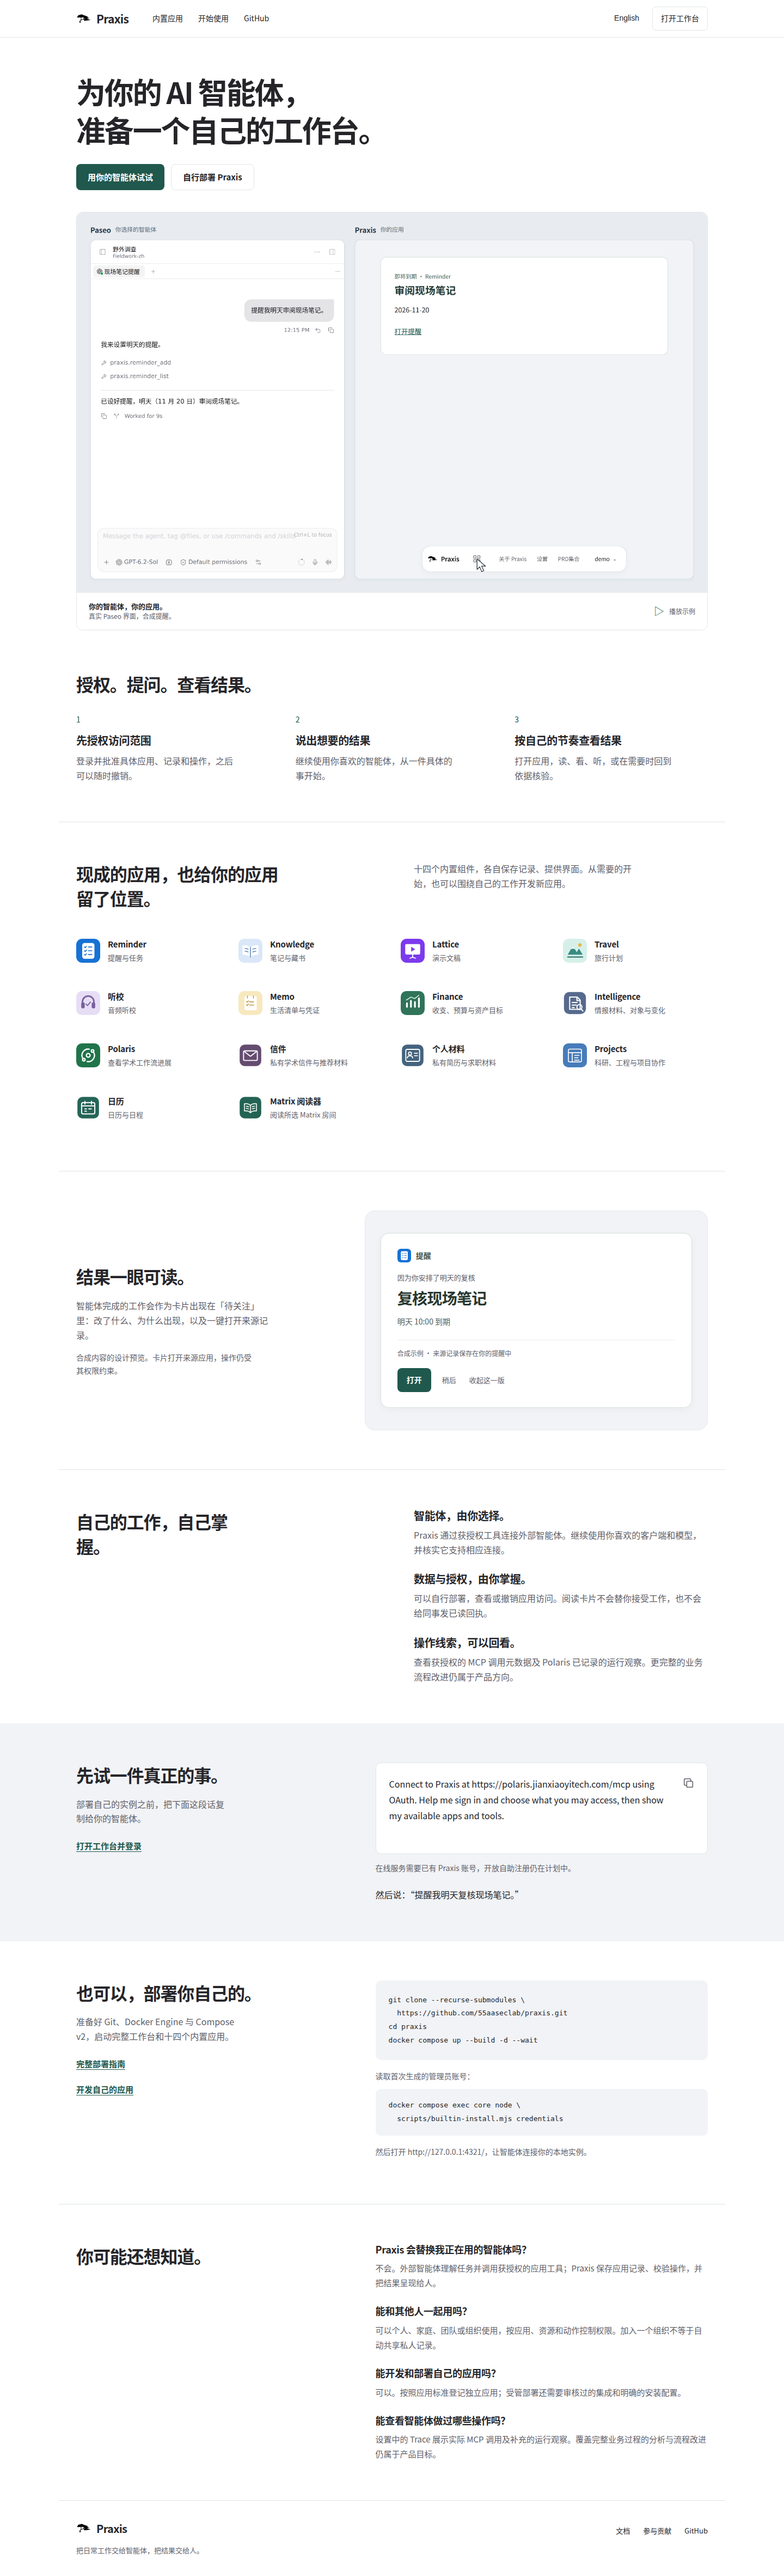
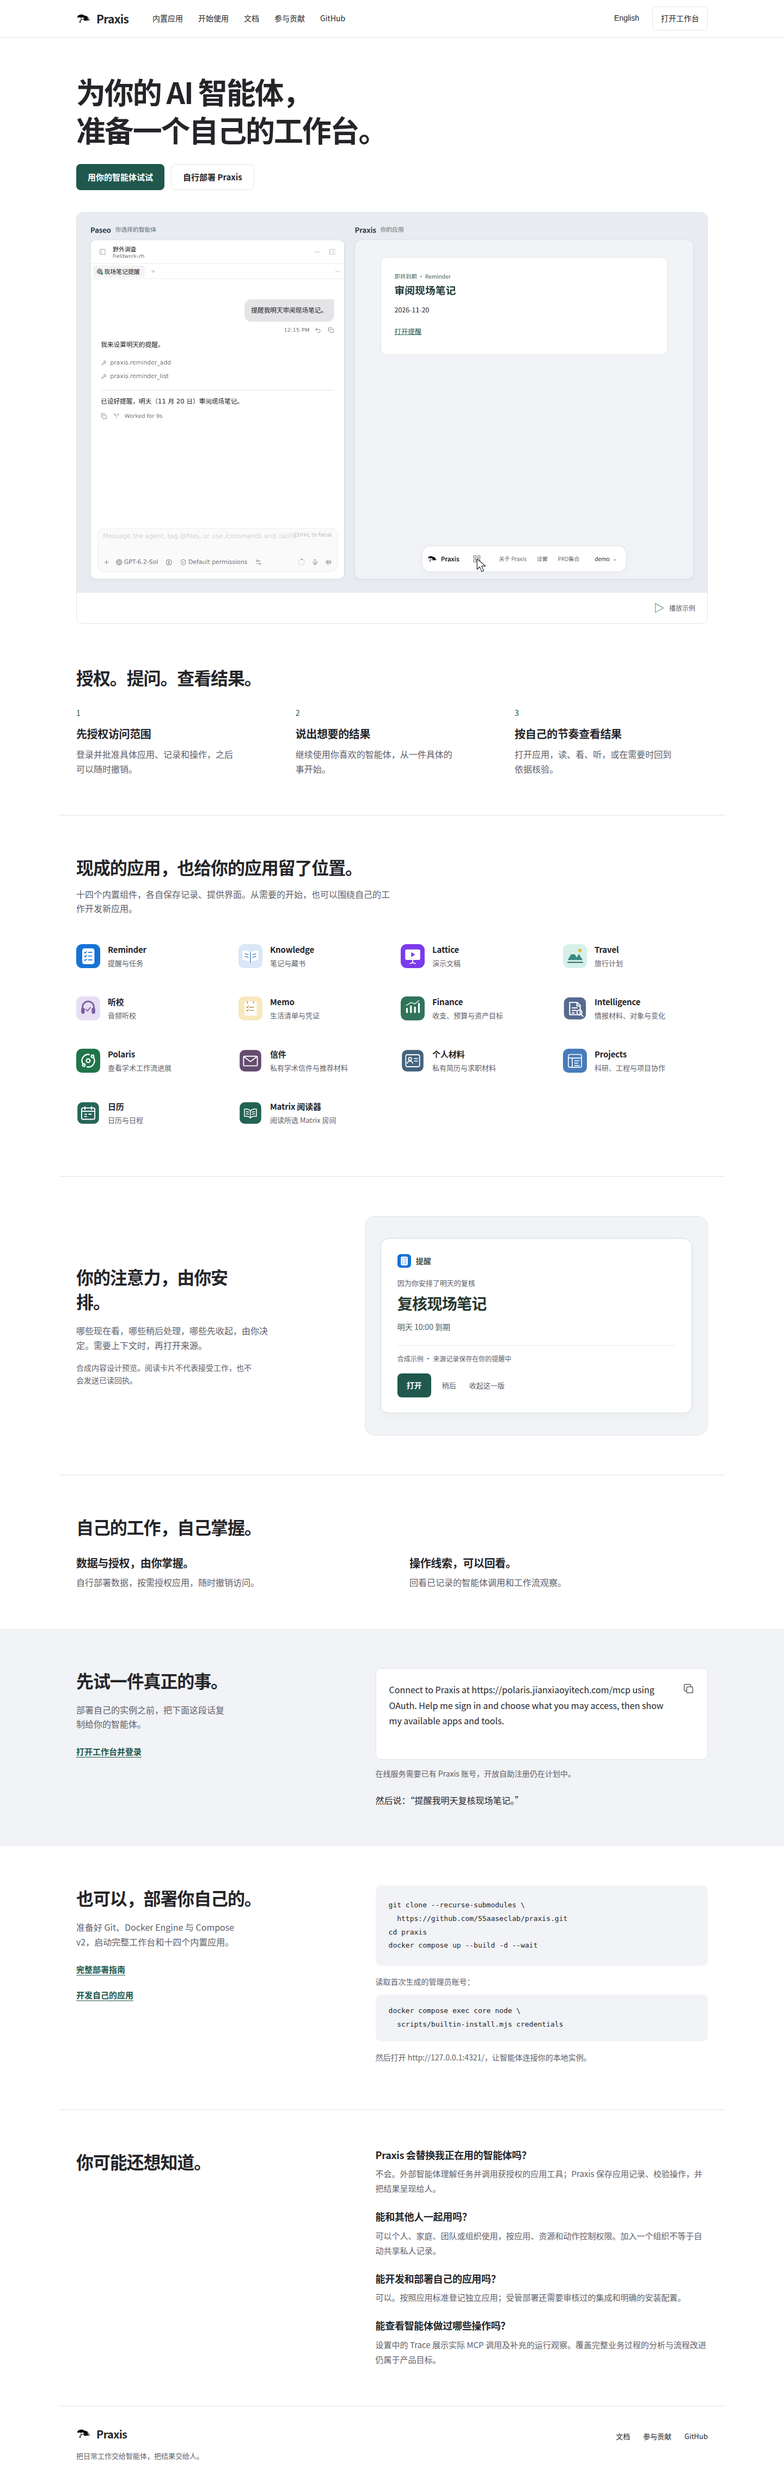
docs: record live attention-focused homepage previews

diff --git a/docs/design/public-home.en.md b/docs/design/public-home.en.md
@@ -95,6 +95,12 @@ Design basis: [Google SEO starter guide](https://developers.google.com/search/do
 
 ## Verified implementation checks
 
+### v0.1.132 content revision
+
+All six requested changes are deployed in English and Chinese. The full suite passes **443/443** checks; focused homepage/navigation checks pass20/20. Actual server-rendered browser checks cover1440/390px and320px navigation wrapping, stacked app headings, two ownership columns, removed captions, attention copy, Documentation/Contribute links and all existing motion/no-JavaScript/cache behavior. Live readback matches the versioned CSS/JS bytes. All35 non-slot containers remain unchanged; blue132 is active and green131 is healthy for rollback. Live screenshots below are updated. Local commits only; no public push.
+
+
+
 ### v0.1.131 cache regression
 
 A browser retaining v0.1.129 CSS reproduced the reported block-layout header and zero gap below the hero actions. Without clearing that browser cache, the content-addressed stylesheet restored the flex header and 40px desktop / 30px phone gap. Source integration and the full platform suite pass **443/443** checks; English/Chinese desktop/phone and both PRD readers also pass.

diff --git a/docs/design/public-home.md b/docs/design/public-home.md
@@ -70,6 +70,12 @@
 
 ## 实现检查
 
+### v0.1.132 内容修订
+
+六项修改均已中英文部署。完整套件 **443/443** 通过，首页/导航专项20/20通过。实际服务端浏览器检查覆盖1440/390px及320px导航换行、应用标题上下排列、归属两栏、说明移除、注意力文案、文档/贡献链接及既有动态/无JS/缓存行为。线上回读与带版本 CSS/JS 字节一致。35个非平台槽容器保持原ID，蓝132活动、绿131健康可回滚。下方线上截图已更新，仅本地提交、未公开推送。
+
+
+
 ### v0.1.131 缓存回归
 
 浏览器保留 v0.1.129 CSS 时，复现了反馈中的块布局 header 和按钮下方0间距。在不清空旧缓存的情况下，带内容摘要的样式地址恢复了 flex 页头及桌面40px/手机30px间距。源码集成与完整平台套件 **443/443** 通过，英中桌面/手机及双语 PRD 阅读器检查通过。
